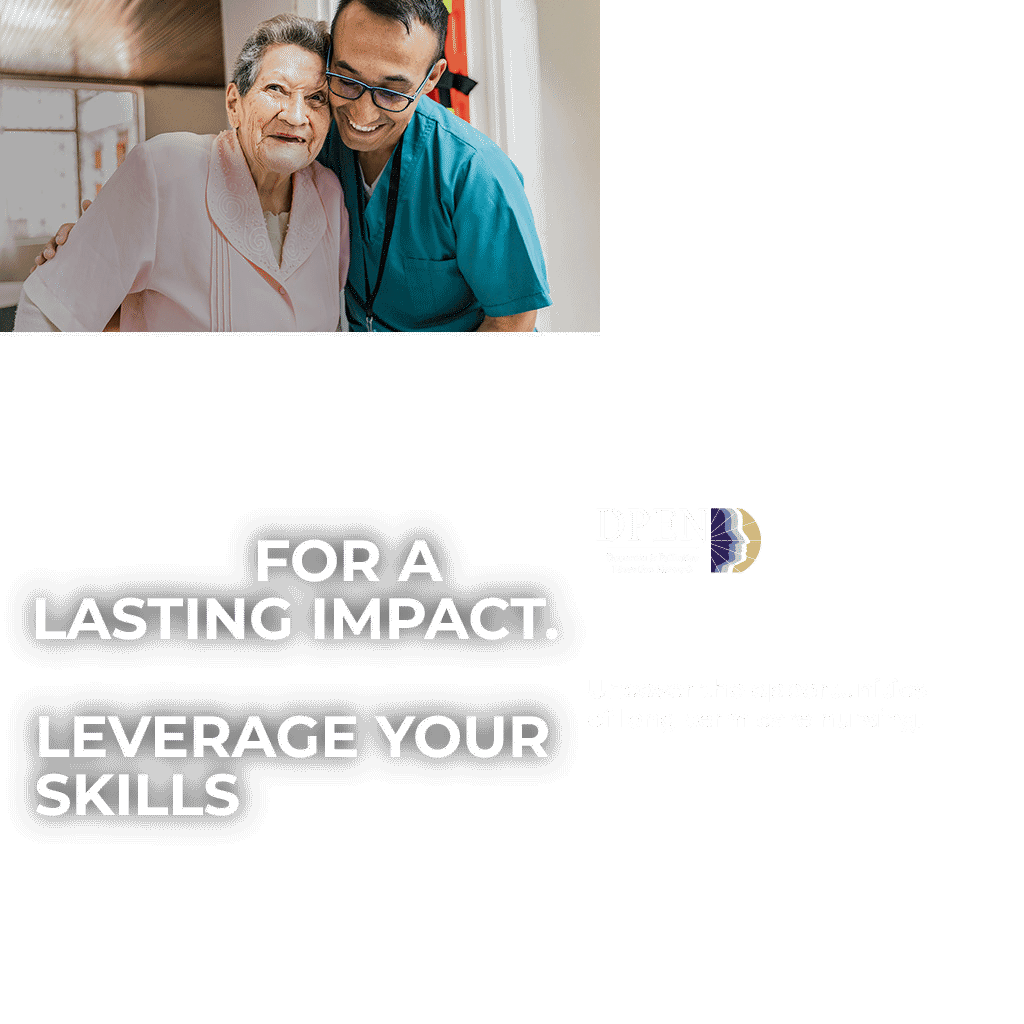
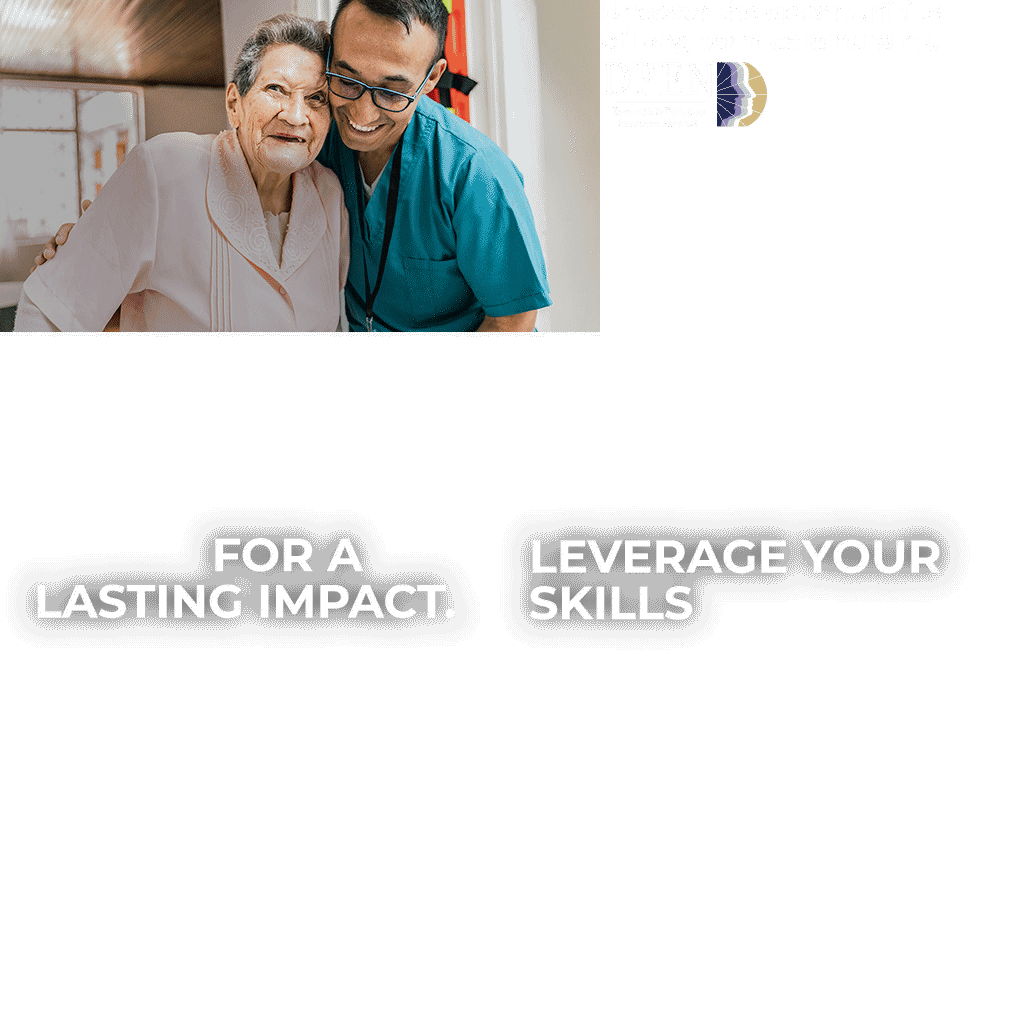
Add files via upload

diff --git a/4trans/300x250/UWSoN-Trans-Display-300x250.js b/4trans/300x250/UWSoN-Trans-Display-300x250.js
@@ -3,7 +3,7 @@
 var p; // shortcut to reference prototypes
 var lib={};var ss={};var img={};
 lib.ssMetadata = [
-		{name:"UWSoN_Trans_Display_300x250_atlas_1", frames: [[588,678,338,54],[0,678,586,174],[0,502,594,174],[596,502,167,75],[0,0,600,500]]}
+		{name:"UWSoN_Trans_Display_300x250_atlas_1", frames: [[602,0,338,54],[494,502,484,154],[0,502,492,154],[602,56,167,75],[0,0,600,500]]}
 ];
 
 
@@ -27,7 +27,7 @@ lib.ssMetadata = [
 
 
 
-(lib.CachedBmp_1 = function() {
+(lib.CachedBmp_4 = function() {
 	this.initialize(ss["UWSoN_Trans_Display_300x250_atlas_1"]);
 	this.gotoAndStop(0);
 }).prototype = p = new cjs.Sprite();
@@ -90,7 +90,7 @@ if (reversed == null) { reversed = false; }
 	cjs.MovieClip.apply(this,[props]);
 
 	// SUBHEAD.svg
-	this.instance = new lib.CachedBmp_1();
+	this.instance = new lib.CachedBmp_4();
 	this.instance.setTransform(0,0,0.5,0.5);
 
 	this.timeline.addTween(cjs.Tween.get(this.instance).wait(1));
@@ -198,7 +198,7 @@ if (reversed == null) { reversed = false; }
 
 	this._renderFirstFrame();
 
-}).prototype = getMCSymbolPrototype(lib.HEAD1b, new cjs.Rectangle(-19,-11,297,87), null);
+}).prototype = getMCSymbolPrototype(lib.HEAD1b, new cjs.Rectangle(-19,-11,246,77), null);
 
 
 (lib.HEAD1a = function(mode,startPosition,loop,reversed) {
@@ -214,13 +214,13 @@ if (reversed == null) { reversed = false; }
 
 	// Layer_2
 	this.instance = new lib.HEAD1a2x();
-	this.instance.setTransform(-19,-68,0.5,0.4677);
+	this.instance.setTransform(0,0,0.5,0.5);
 
 	this.timeline.addTween(cjs.Tween.get(this.instance).wait(1));
 
 	this._renderFirstFrame();
 
-}).prototype = getMCSymbolPrototype(lib.HEAD1a, new cjs.Rectangle(-19,-68,293,87), null);
+}).prototype = getMCSymbolPrototype(lib.HEAD1a, new cjs.Rectangle(0,0,242,77), null);
 
 
 (lib.SUBHEAD = function(mode,startPosition,loop,reversed) {
@@ -311,19 +311,19 @@ if (reversed == null) { reversed = false; }
 
 	// HEAD1a
 	this.instance = new lib.HEAD1a();
-	this.instance.setTransform(65.85,116.1,0.8017,0.8017,0,0,0,135.5,-19.2);
+	this.instance.setTransform(70.4,54.8,1,1,0,0,0,135.4,-19.2);
 	this.instance.alpha = 0;
 
-	this.timeline.addTween(cjs.Tween.get(this.instance).to({regX:135.4,x:126.7,alpha:1},14,cjs.Ease.quintOut).wait(155).to({alpha:0},9).wait(1));
+	this.timeline.addTween(cjs.Tween.get(this.instance).to({x:131.3,alpha:1},14,cjs.Ease.quintOut).wait(155).to({alpha:0},9).wait(1));
 
 	// HEAD1b
 	this.instance_1 = new lib.HEAD1b();
-	this.instance_1.setTransform(65.85,93.65,0.8017,0.8017,0,0,0,135.5,-19.2);
+	this.instance_1.setTransform(90.4,89.8,1,1,0,0,0,135.4,-19.2);
 	this.instance_1.alpha = 0;
 	this.instance_1.shadow = new cjs.Shadow("rgba(0,0,0,1)",0,0,0);
 	this.instance_1._off = true;
 
-	this.timeline.addTween(cjs.Tween.get(this.instance_1).wait(43).to({_off:false},0).to({regX:135.4,x:126.7,alpha:1},14,cjs.Ease.quintOut).wait(112).to({alpha:0},9).wait(1));
+	this.timeline.addTween(cjs.Tween.get(this.instance_1).wait(43).to({_off:false},0).to({x:150.4,alpha:1},14,cjs.Ease.quintOut).wait(112).to({alpha:0},9).wait(1));
 
 	// SUBHEAD
 	this.instance_2 = new lib.SUBHEAD();
@@ -362,7 +362,7 @@ if (reversed == null) { reversed = false; }
 	this._renderFirstFrame();
 
 }).prototype = p = new lib.AnMovieClip();
-p.nominalBounds = new cjs.Rectangle(88,124.5,212.5,126);
+p.nominalBounds = new cjs.Rectangle(82,124.5,218.5,126);
 // library properties:
 lib.properties = {
 	id: '0957C5EC3B874C629166840920B09671',
